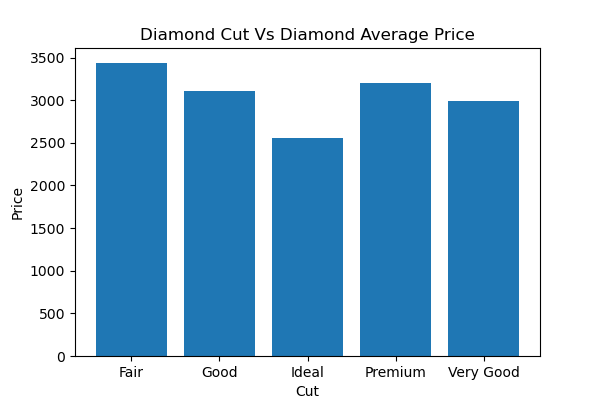
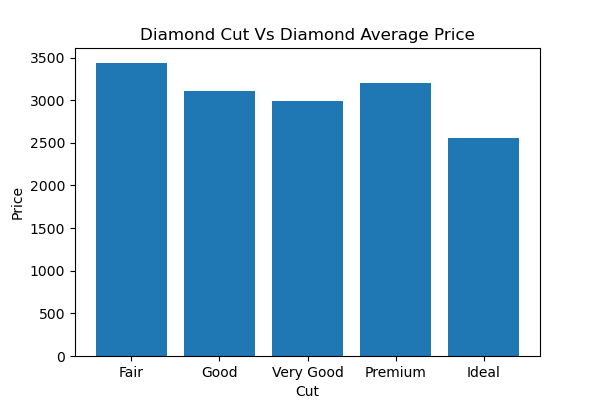
final update

diff --git a/SRC/Functions.py b/SRC/Functions.py
@@ -7,7 +7,7 @@ from scipy import stats
 
 
 def prep_df(input_df,sample_size, max_price):
-    '''This function takes a raw dataframe with all value and reduces it to a size and 
+    '''This function takes a raw dataframe with all value and reduces it to chosen size and 
     takes the max price for a diamond that the user is working with and returns a dataframe'''
     global df
     df = input_df.drop('Unnamed: 0', 1)
@@ -85,6 +85,7 @@ def price_cut(column):
     '''This function takes a prepped dataframe and sorts diamonds by price and returns a bar chart
     with the average price of a diamond against Cut'''
     df2= df.sort_values(['price'], ascending=False).groupby(column).mean()
+    df2 = df2.reindex(['Fair', 'Good', 'Very Good', 'Premium', 'Ideal']) 
     x= df2.index
     y=df2['price']
     plt.figure(figsize=(6, 4))
@@ -127,10 +128,10 @@ if __name__ == '__main__':
     diamonddf = pd.read_csv('../Data/diamonds.csv')
 
     '''Remove extra column, select smaple size and limit by price.'''
-    prep_df(diamonddf,1, 10000)
+    #prep_df(diamonddf,1, 10000)
 
     '''Display EDA scatter plot of Diamond carat vs diamond price.'''
-    carat_eda(diamonddf)
+    #carat_eda(diamonddf)
 
     '''Print percentage of diamonds from selected range of carats '''
     #percentage_carat_sold(5, 3, diamonddf)

diff --git a/README.md b/README.md
@@ -71,7 +71,7 @@ The beauty of a diamond depends more on the cut of a diamond than anything else.
 
 <img src="Images/Diamond Cut VS Price.png"  >
 
-In this graph we can see one very interesting thing. The Ideal cut is the lowest average price while also being a good middle ground in quality. So it is safe to say that in this data set diamonds of ideal cut provide more bang for your buck as you can get a decent quality diamond for a relatively low price. Again the lowest quality has the highest price due to the sheer amount of diamonds sold at that quality level, although the others are not very far behind.
+In this graph we can see one very interesting thing. Even though quantity skews the average price greatly with other characteristics, different types of cuts have generally similar average prices. I believe this is because cut actually has little to do with the diamond but rather with how well the manufacturer cuts the diamond. 
 
 
 
@@ -80,8 +80,6 @@ In this graph we can see one very interesting thing. The Ideal cut is the lowest
 In conclusion diamonds and their price are very different and every diamond is unique. In the diamond business the 4 C's are big in determining price of a diamond. 
 
 Carat is one of the most important ones when talking about price. Carats can raise the price of a diamond exponentially, it is also important to remember most diamonds sold to consumers are below 1 carat and even a change in the smallest measurement of carats (points) can drastically increase the price.
-
-a
 
 Clarity refers to the lack of defects in a diamond. The natural occurrence of diamonds make them prone to imperfections that arise during their formation.  Clarity ranges from Included meaning obvious imperfections to flawless or diamonds with imperfections that are only visible using 10x magnification.
 
